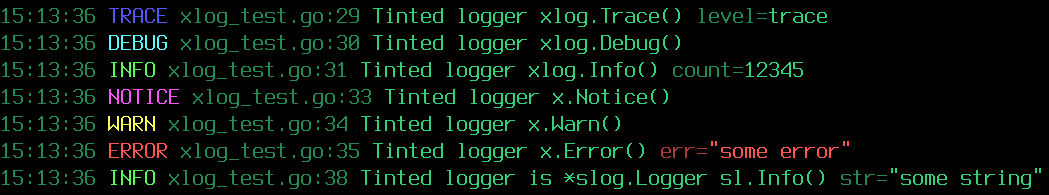
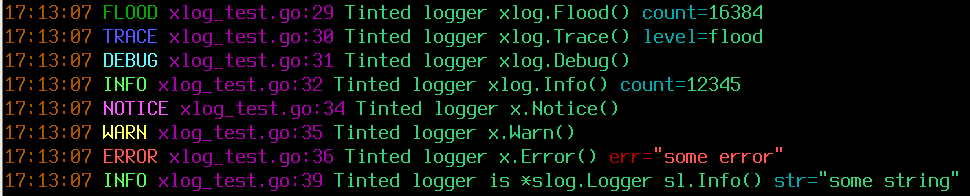
level string may numeric

Changed region(s): [[0.0, 0.0, 1.0, 0.9846]]

diff --git a/level.go b/level.go
@@ -7,6 +7,8 @@ import (
 	"fmt"
 	"log/slog" // go>=1.21
 	"runtime"
+	"strconv"
+	"strings"
 	"time"
 	//"golang.org/x/exp/slog" // depricated for go>=1.21
 )
@@ -31,19 +33,17 @@ const (
 const DEFAULT_LEVEL = LevelInfo
 
 // Log level as string for setup
-type Lvl string
-
 const (
-	LvlFlood  Lvl = "flood"
-	LvlTrace      = "trace"
-	LvlDebug      = "debug"
-	LvlInfo       = "info"
-	LvlNotice     = "notice"
-	LvlWarn       = "warn"
-	LvlError      = "error"
-	LvlFatal      = "fatal"
-	LvlPanic      = "panic"
-	LvlSilent     = "silent"
+	LvlFlood  = "flood"
+	LvlTrace  = "trace"
+	LvlDebug  = "debug"
+	LvlInfo   = "info"
+	LvlNotice = "notice"
+	LvlWarn   = "warn"
+	LvlError  = "error"
+	LvlFatal  = "fatal"
+	LvlPanic  = "panic"
+	LvlSilent = "silent"
 )
 
 // Log level tags
@@ -61,7 +61,7 @@ const (
 )
 
 // Lvl -> Level
-var parseLvl = map[Lvl]Level{
+var parseLvl = map[string]Level{
 	LvlFlood:  LevelFlood,
 	LvlTrace:  LevelTrace,
 	LvlDebug:  LevelDebug,
@@ -75,7 +75,7 @@ var parseLvl = map[Lvl]Level{
 }
 
 // Level -> Lvl
-var parseLevel = map[Level]Lvl{
+var parseLevel = map[Level]string{
 	LevelFlood:  LvlFlood,
 	LevelTrace:  LvlTrace,
 	LevelDebug:  LvlDebug,
@@ -124,20 +124,25 @@ func (l Level) String() string {
 	}
 }
 
-// Parse Lvl (Lvl -> Level)
-func ParseLvl(lvl Lvl) Level {
+// Parse Lvl (string to num: Lvl -> Level)
+func ParseLvl(lvl string) Level {
+	lvl = strings.ToLower(lvl)
 	level, ok := parseLvl[lvl]
-	if !ok {
-		return DEFAULT_LEVEL
+	if !ok { // try convert from numeric
+		i, err := strconv.Atoi(lvl)
+		if err != nil {
+			return DEFAULT_LEVEL
+		}
+		level = Level(i)
 	}
 	return level
 }
 
-// Parse Level (Level -> Lvl)
-func ParseLevel(level Level) Lvl {
+// Parse Level (num to string: Level -> Lvl)
+func ParseLevel(level Level) string {
 	lvl, ok := parseLevel[level]
 	if !ok {
-		return Lvl(fmt.Sprintf("%d", int(level)))
+		return fmt.Sprintf("%d", int(level))
 	}
 	return lvl
 }
@@ -149,8 +154,8 @@ func GetLevel() Level {
 	return currentLevel
 }
 
-// Return current log level as string (xlog.Lvl)
-func GetLvl() Lvl {
+// Return current log level as string
+func GetLvl() string {
 	level := GetLevel()
 	return ParseLevel(level)
 }

diff --git a/conf.go b/conf.go
@@ -6,7 +6,7 @@ package xlog
 type Conf struct {
 	File     string `json:"file"`      // log file path OR stdout/stderr
 	FileMode string `json:"file-mode"` // log file mode (if File is not stdout/stderr)
-	Level    Lvl    `json:"level"`     // log level (trace/debug/info/warn/error/fatal/silent)
+	Level    string `json:"level"`     // log level (trace/debug/info/warn/error/fatal/silent)
 	Slog     bool   `json:"slog"`      // use slog insted standart log (slog.TextHandler)
 	JSON     bool   `json:"json"`      // use JSON log (slog.JSONHandler)
 	Tint     bool   `json:"tint"`      // use tinted (colorized) log (xlog.TintHandler)

diff --git a/flag.go b/flag.go
@@ -41,7 +41,7 @@ func NewOpt() *Opt {
 // Add parsed command line options to logger config
 func AddOpt(opt *Opt, conf *Conf) {
 	if opt.LogLvl != "" {
-		conf.Level = Lvl(opt.LogLvl)
+		conf.Level = opt.LogLvl
 	}
 	if opt.SLog {
 		conf.Slog = true
